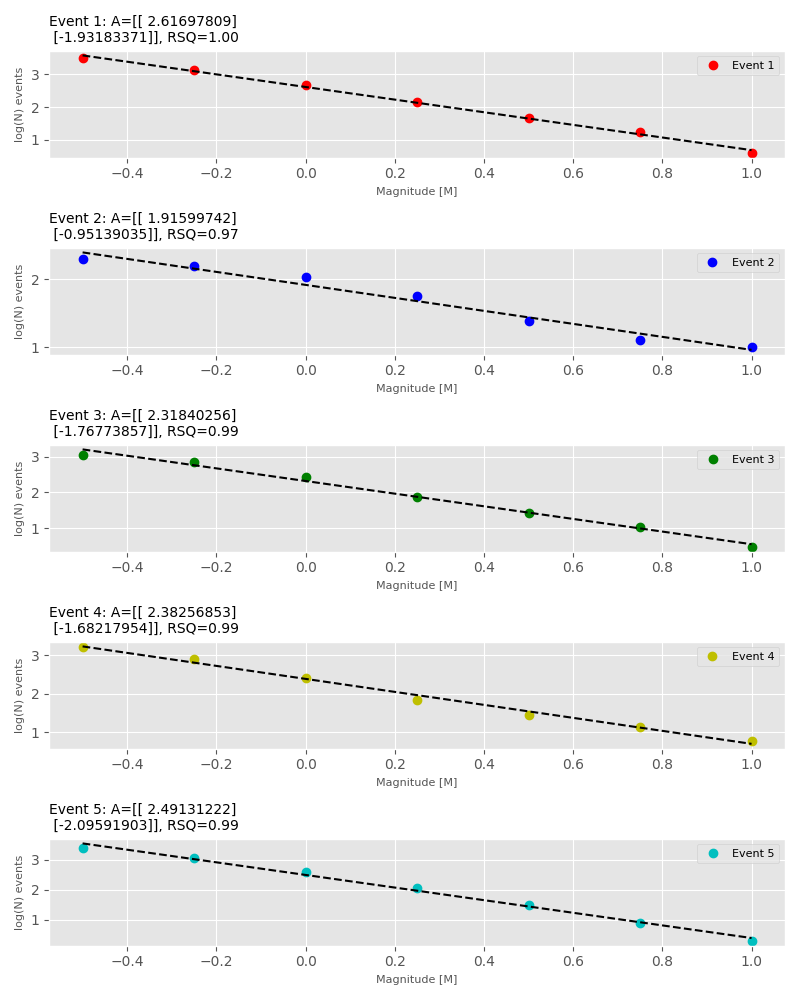
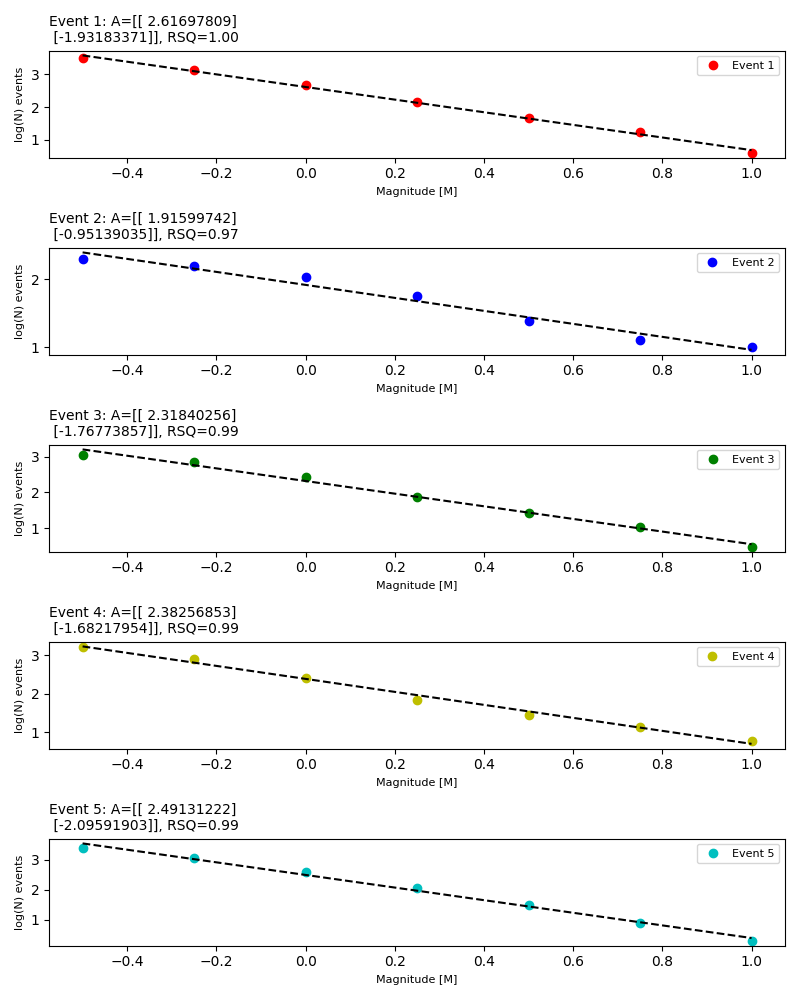
final edits before report

diff --git a/src/LSR/driver.py b/src/LSR/driver.py
@@ -4,11 +4,13 @@ from regression import multi_regress
 
 def main():
 
+    #Reads input file and creates lists of timestamps and magnitudes. Creates a list of plot colors.
     input_data = np.loadtxt("C:\\Users\\mcdeb\\GOPH420\\GOPH420-W2023-LAB03\\data\\M_data.txt")
     time = (input_data[:,0])
     mag = (input_data[:,1])
     colors = ["r","b","g","y","c"]
 
+    #Plots and saves input data.
     plt.figure()
     plt.xlabel("Time [h]")
     plt.ylabel("Magnitude [M]")
@@ -17,9 +19,11 @@ def main():
     plt.grid()
     plt.savefig('C:\\Users\\mcdeb\\GOPH420\\GOPH420-W2023-LAB03\\data\\data.png')
 
+    #5 distinct events are evident from fig. 1: Creates boundaries for these events and plotting increments for later figures.
     boundaries = [1e-8,34,45,71,95,time[-1]]
     incr = np.array([-0.5,-0.25,0,0.25,0.5,0.75,1.0])
     
+    #Creates a list of indices in time where boundary cutoffs occur
     k = 0
     index = np.zeros(0)
     for i in boundaries:
@@ -27,18 +31,21 @@ def main():
             k = k + 1
         index = np.append(index,k)
 
+    #Counts the number of events of each magnitude in incr that occur within each boundary set
     def count(boundaries, interval):
         n = np.zeros(0)
         for i in range(len(boundaries)):
             n = np.append(n,np.sum(np.where(interval>=boundaries[i],1,0)))
         return n
     
+    #Creates lists of log(n) events that occur in at or below each magnitude specified in incr
     n_list = np.empty((5, len(incr)))
     for i in range (5):
 
         n = np.log10(count(incr,mag[int(index[i]):int(index[i+1])]))
         n_list[i,:] = n
 
+    #Creates arrays for function outputs and variables, and passes them to model. defines model parameters, residuals, r^2, and output.
     def model(n,m):
 
         y = np.transpose([n])
@@ -47,6 +54,7 @@ def main():
 
         return a,e,rsq,model
 
+    #Plots log(n) events for each magnitude slice as a function of event magnitude based on raw data
     plt.figure()
     plt.title("log(N) as a function of M")
     plt.xlabel("Magnitude [M]")
@@ -57,7 +65,7 @@ def main():
     plt.grid()
     plt.savefig('C:\\Users\\mcdeb\\GOPH420\\GOPH420-W2023-LAB03\\data\\events.png')
 
-    plt.style.use('ggplot')
+    #Creates a figure with 5 subplots plotting log(n) events as a function of magnitude based on model output
     fig, axs = plt.subplots(5, 1, figsize=(8, 10))
     fig.subplots_adjust(hspace=0.6)
     for i in range(5):
@@ -71,7 +79,9 @@ def main():
     plt.tight_layout()
     plt.savefig('C:\\Users\\mcdeb\\GOPH420\\GOPH420-W2023-LAB03\\data\\models.png')
 
+    #Displays the plots
     plt.show()
 
+#Runs the program
 if __name__ == "__main__":
         main()

diff --git a/src/LSR/regression.py b/src/LSR/regression.py
@@ -1,5 +1,6 @@
 import numpy as np
 
+#Performs linear LSR to fit a model based on inputs
 def multi_regress(y,z):
 
     ztz = np.matmul(np.transpose(z),z)

diff --git a/README.md b/README.md
@@ -3,4 +3,4 @@ Geophysicists
 *Semester:* W2023
 *Instructor:* B. Karchewski
 *Author:* M. de Barros
-An example repository setup for a simple Python package
+Implementation of linear least squares regression
